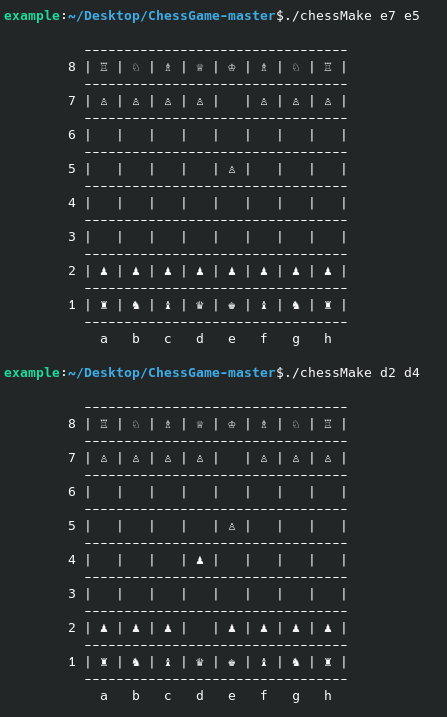
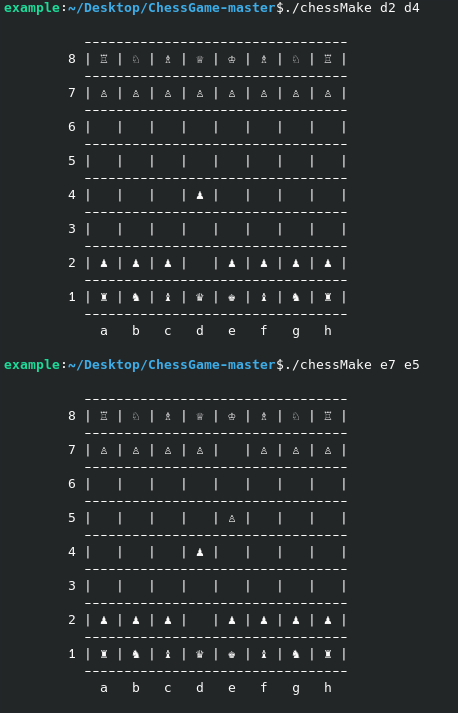
changed README and screenshot

Changed region(s): [[0.0, 0.0617, 0.9306, 0.5245], [0.1454, 0.5554, 0.7852, 0.9874], [0.0, 0.0, 0.9306, 0.0309]]

diff --git a/moveValidation.cpp b/moveValidation.cpp
@@ -12,8 +12,8 @@ const char *wrongCoordinatesException = "The coordinates are wrong.";
 const char *invalidPieceException = "Such a piece does not exist.";					
 const char *movingNothingException = "You are not moving anything. Try again.";							
 const char *pieceIsntHereException = "You are moving a piece that is not here.";								
-const char *wrongTurnBlackException = "This is not your turn. This is the blacks' turn.";								
-const char *wrongTurnWhiteException = "This is not your turn. This is the whites' turn.";	
+const char *wrongTurnBlackException = "This is not your turn. This is the whites' turn.";								
+const char *wrongTurnWhiteException = "This is not your turn. This is the blacks' turn.";	
 							
 const char *towerMoveException = "Towers cannot move like this.";					
 const char *towerPassException = "Towers cannot pass over other pieces.";								
@@ -150,14 +150,7 @@ int validateKingMove(char piecePos[], char untakablePieces[], char currentPiece,
 		|| (fabs(previousPlace1 - nextPlace1) == 1 && fabs(previousPlace2 - nextPlace2) == 0)))  {			
 		return throwInvalidMoveException(kingMoveException, mustPrint);
 	}
-	
-		/*-------------
-          | -9| -8| -7|
-          -------------
-          | -1| k | +1| 
-          -------------
-          | +7| +8| +9| 
-          -------------*/
+
 	char* enemyKing;
 	char* enemyQueen;
 	char* enemyBishop;

diff --git a/global.cpp b/global.cpp
@@ -4,8 +4,8 @@ using namespace std;
 
 const char emptySquare = ' ';
 //1 means "Whites played. Next turn: black", and 2 means "Blacks played. Next turn: white"
-const char whitesTurn = '1';
-const char blacksTurn = '2';
+const char whitesTurn = '2';
+const char blacksTurn = '1';
 const char* whitesTurnStatus = "White's turn";
 const char* blacksTurnStatus = "Black's turn";
 

diff --git a/README.md b/README.md
@@ -1,26 +1,19 @@
-# ChessGame
+# chess-cli
 Chess game
 
-The conventions to use this program are:
--input form: piece previousLocalization(a,b) nextLocalization(a,b)
--color: white -> lowerCaps, black -> AllCaps
+The convention is that the first position is the previous position and the second one is the next.
+ b1 c3 would mean a knight going from b1 to c3
 
 FEATURES:
-* preventing wrong moves
-* preventing the wrong pieces from passing over other pieces
-* preventing pieces from eating those of the same color and the enemy king
-* pawn promotion
-* reset option
-* sandbox mode to debug, or to cheat
+* preventing illegal moves (passing over other pieces, eating one's own allies, etc.)
+* handling the special turns (like pawn promotion)
 * check detection, and prevention of any move that doesn't solve it
-* turn-taking
-* deal with wrong inputs
 * recognizes checkmates and stalemates
-
+* special options, like reset, or sandbox mode to debug or cheat
 
 TO RUN
 make
 ./chessMake
-./chessMake P e2 e3
+./chessMake e2 e3
 
 ![Alt text](./screenshot.png)
